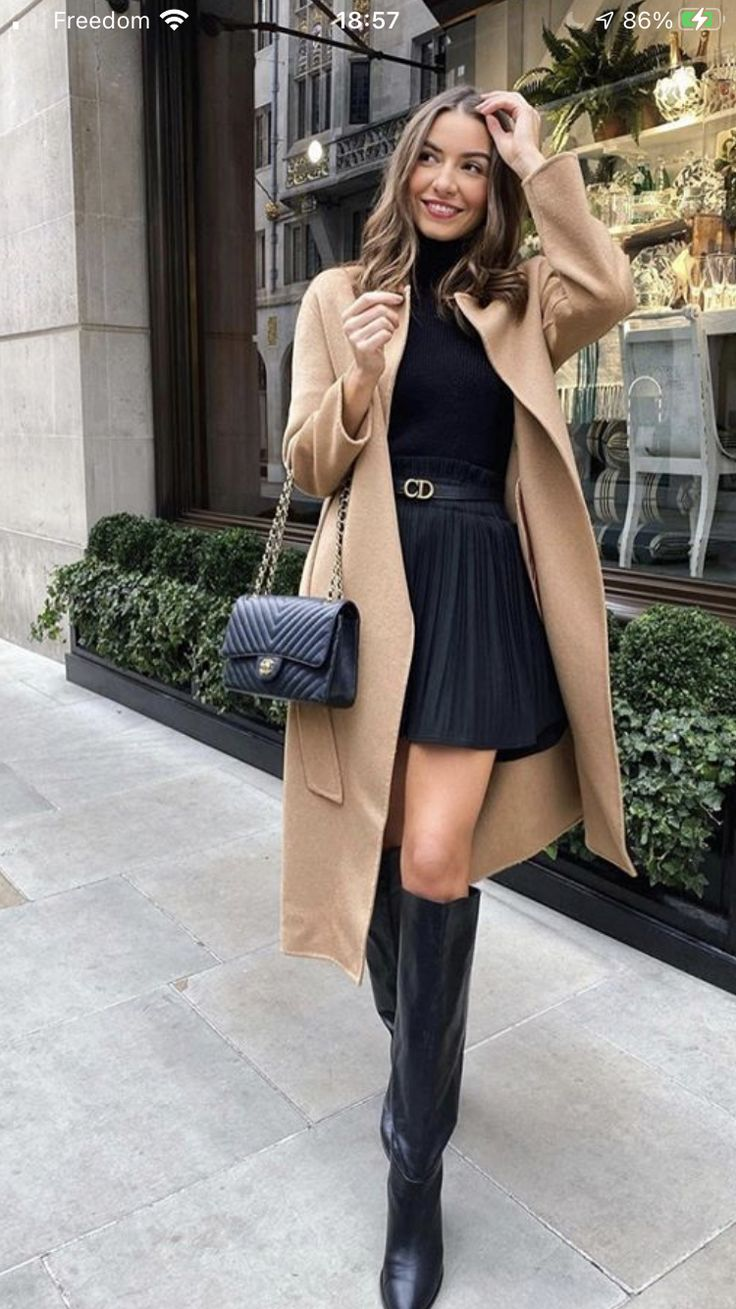
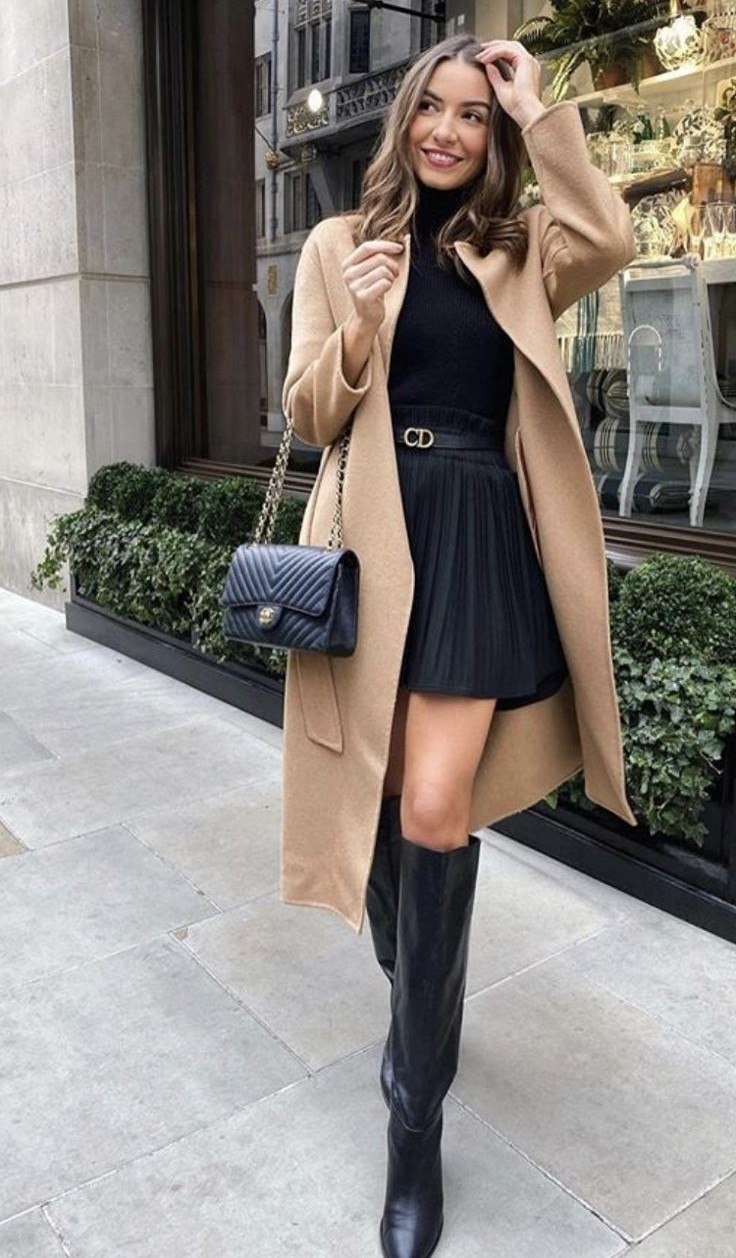
Agregué una imagen de portada para las colecciones y ofertas

diff --git a/index.html b/index.html
@@ -253,65 +253,108 @@
       gap: 18px;
     }
 
-    .showcase {
-      background: linear-gradient(145deg, rgba(31, 22, 48, 0.96), rgba(199, 79, 107, 0.94));
-      color: white;
-      border-radius: 34px;
-      padding: 26px;
-      box-shadow: var(--shadow);
-      min-height: 340px;
-      position: relative;
-      overflow: hidden;
-      display: flex;
-      flex-direction: column;
-      justify-content: space-between;
-    }
+.showcase {
+  background: #b45572;
+  border-radius: 34px;
+  min-height: 560px;
+  position: relative;
+  overflow: hidden;
+  padding: 26px;
+  display: flex;
+  flex-direction: column;
+  justify-content: flex-end;
+  box-shadow: var(--shadow);
+}
 
-    .showcase::before {
-      content: "";
-      position: absolute;
-      inset: 18px;
-      border-radius: 28px;
-      border: 1px solid rgba(255,255,255,0.16);
-      pointer-events: none;
-    }
+/* FOTO DE FONDO */
+.showcase-bg {
+  position: absolute;
+  inset: 0;
+  width: 100%;
+  height: 100%;
+  object-fit: cover;
+  object-position: center top;
+  z-index: 0;
+}
 
-    .showcase-top {
-      display: flex;
-      align-items: center;
-      justify-content: space-between;
-      gap: 12px;
-      position: relative;
-      z-index: 1;
-    }
+/* DEGRADADO VINO */
+.showcase::after {
+  content: "";
+  position: absolute;
+  inset: 0;
+  z-index: 1;
 
-    .mini-badge {
-      padding: 8px 12px;
-      border-radius: 999px;
-      background: rgba(255,255,255,0.14);
-      border: 1px solid rgba(255,255,255,0.18);
-      font-size: 0.88rem;
-      font-weight: 700;
-    }
+  background: linear-gradient(
+    to top,
+    rgba(180,85,114,1) 0%,
+    rgba(180,85,114,.95) 20%,
+    rgba(180,85,114,.65) 40%,
+    rgba(180,85,114,.15) 60%,
+    rgba(180,85,114,0) 75%
+  );
+}
 
-    .showcase h3 {
-      position: relative;
-      z-index: 1;
-      margin: 0;
-      font-size: 2rem;
-      line-height: 1;
-      max-width: 11ch;
-      letter-spacing: -0.05em;
-    }
+/* MARCO INTERIOR */
+.showcase::before {
+  content: "";
+  position: absolute;
+  inset: 12px;
+  border-radius: 24px;
+  border: 1px solid rgba(255,255,255,.18);
+  z-index: 3;
+  pointer-events: none;
+}
 
-    .showcase p {
-      position: relative;
-      z-index: 1;
-      color: rgba(255,255,255,0.82);
-      line-height: 1.75;
-      margin: 0;
-      max-width: 32ch;
-    }
+/* CONTENIDO ENCIMA DE LA FOTO */
+.showcase-top,
+.showcase h3,
+.showcase p,
+.accent-row {
+  position: relative;
+  z-index: 2;
+}
+
+/* ETIQUETAS */
+.showcase-top {
+  position: absolute;
+  top: 24px;
+  left: 24px;
+  right: 24px;
+
+  display: flex;
+  justify-content: space-between;
+  align-items: center;
+
+  z-index: 2;
+}
+
+.mini-badge {
+  padding: 8px 12px;
+  border-radius: 999px;
+  background: rgba(255,255,255,.18);
+  border: 1px solid rgba(255,255,255,.25);
+  color: #fff;
+  font-size: .8rem;
+  font-weight: 700;
+}
+
+/* TÍTULO */
+.showcase h3 {
+  margin-top: 120px;
+  color: #fff;
+  font-size: 2.1rem;
+  line-height: .92;
+  max-width: 8ch;
+  letter-spacing: -0.05em;
+}
+
+/* DESCRIPCIÓN */
+.showcase p {
+  margin-top: 10px;
+  color: rgba(255,255,255,.92);
+  line-height: 1.7;
+  max-width: 30ch;
+}
 
     .accent-row {
       display: flex;
@@ -690,7 +733,7 @@
 
         <div class="hero-aside">
           <div class="showcase">
-            <img class="showcase-bg" src="Imagenes_página_HTMTL/Portada2.jpg" alt="Fondo de la colección">
+            <img class="showcase-bg" src="Imagenes_página_HTML/Portada2.jpg" alt="Fondo de la colección">
             <div class="showcase-top">
               <div class="mini-badge">Colección 2026</div>
               <div class="mini-badge">Ofertas para ti</div>
